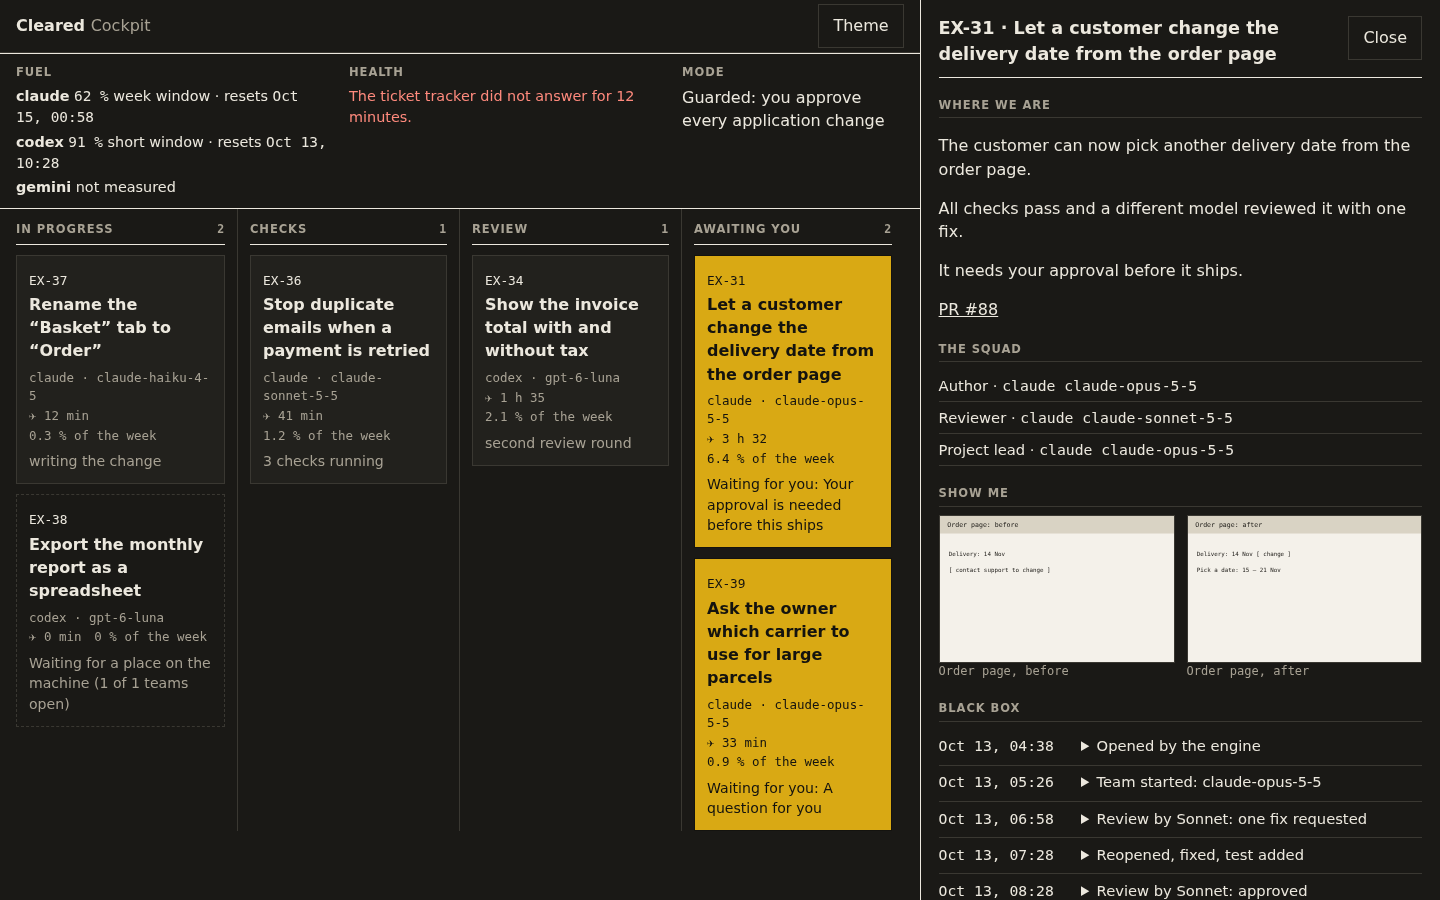
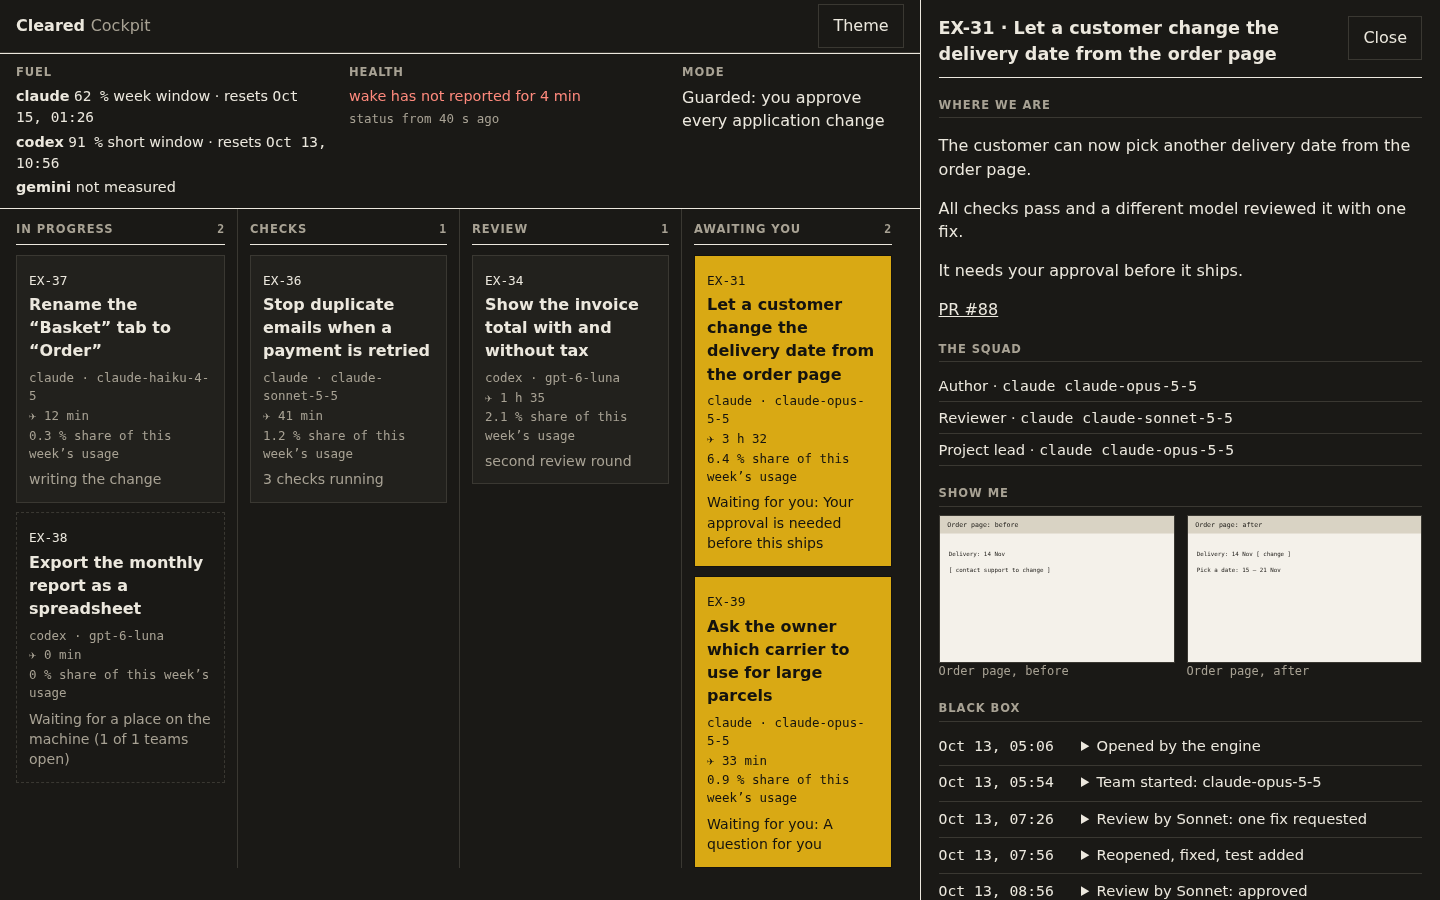
feat: read the health the wake recorded instead of running status
The app no longer runs cleared status: no write, no outside call. Health shows
the recorded state with its age, and a wake silent for three intervals is itself
a problem. The quota share on a card is renamed to share of this week's usage.

diff --git a/app/public/app.js b/app/public/app.js
@@ -18,6 +18,18 @@ const when = (iso) => new Intl.DateTimeFormat(locale(), { month: 'short', day: '
 const dur = (m) => (m < 60 ? `${m} min` : `${Math.floor(m / 60)} h ${String(m % 60).padStart(2, '0')}`);
 const mono = (text) => el('span', { className: 'mono', textContent: text });
 
+function ageText(iso) {
+  const sec = Math.max(0, Math.round((Date.now() - Date.parse(iso)) / 1000));
+  return sec < 90 ? t('app_age_s', { n: sec }) : sec < 5400 ? t('app_age_min', { n: Math.round(sec / 60) }) : t('app_age_h', { n: Math.round(sec / 3600) });
+}
+// The age of the recorded status is shown, and keeps counting between updates.
+function tickAge() {
+  const node = $('health-age');
+  const at = state.snap?.health?.recordedAt;
+  if (node) node.textContent = at ? t('app_status_age', { age: ageText(at) }) : '';
+}
+setInterval(tickAge, 5000);
+
 const COLUMNS = ['progress', 'checks', 'review', 'awaiting'];
 const state = { snap: null, last: null, open: null, project: null, connected: false, opener: null };
 
@@ -41,7 +53,9 @@ function renderTop(s) {
     f.measured ? [mono(`${f.used} %`), ` ${t('app_of_window', { window: f.window })} · ${t('app_resets')} `, el('time', { className: 'mono', dateTime: f.resetsAt, textContent: when(f.resetsAt) })] : t('app_not_measured'))));
   const h = $('health');
   h.replaceChildren(s.health.ok ? el('span', { className: 'ok' }, el('span', { className: 'dot' }), t('app_all_good'))
-    : el('ul', {}, ...s.health.problems.map((p) => el('li', { className: 'bad', textContent: p.message }))));
+    : el('ul', {}, ...s.health.problems.map((p) => el('li', { className: 'bad', textContent: p.message }))),
+  el('div', { className: 'age mono', id: 'health-age' }));
+  tickAge();
   $('mode').textContent = s.mode.label;
 }
 

diff --git a/app/public/style.css b/app/public/style.css
@@ -64,3 +64,4 @@ button, a { color: inherit; }
 .box time { white-space: nowrap; }
 .ph-head button { flex: 0 0 auto; white-space: nowrap; }
 .card.waiting button:focus-visible { outline-color: var(--atc-ink); }
+.age { font-size: .78rem; color: var(--muted); margin-top: .2rem; }

diff --git a/docs/app.md b/docs/app.md
@@ -1,6 +1,6 @@
 # The Cleared app (Cockpit), read only
 
-`cleared app` starts one interface for desktop and phone that shows the factory live. This first version **only reads**: the one thing it runs that is not a pure read is `cleared status` for the health box, which records its own heartbeat state in the ledger as it does from a terminal. No route writes, moves a ticket, answers a question, or starts or stops a team. Places where actions will come later are marked as reserved and are not clickable.
+`cleared app` starts one interface for desktop and phone that shows the factory live. This first version **only reads**: it writes nothing, runs no command that writes and makes no outside call (no GitHub, no tracker probe, no quota probe). No route writes, moves a ticket, answers a question, or starts or stops a team. Places where actions will come later are marked as reserved and are not clickable.
 
 ```sh
 cleared app            # serves the app; the installer registers it as cleared-app.service
@@ -12,7 +12,7 @@ cleared app --demo     # serves invented data, for a look without a project
 
 - **Tower**: four columns (In progress, Checks, Review, Awaiting you), one card per open ticket. Cards that wait for you are yellow and first in their column. A team waiting for a place on the machine has a dashed card with the reason. On a phone the tower is one list, with the cards that wait for you first.
 - **Porthole**: one ticket and its squad. *Where we are*, *The squad*, *Show me* (before/after captures for a screen ticket; otherwise an example, the tests added or changed and what it touches), and the *Black box*, a plain-language timeline from the ledger; unfold a line for the raw event.
-- **Top bar**: project tabs when there are several, **Fuel** (the most constraining window per subscription and its reset time, never a money amount; `not measured` otherwise), the health of `cleared status`, and the pilot mode.
+- **Top bar**: project tabs when there are several, **Fuel** (the most constraining window per subscription and its reset time, never a money amount; `not measured` otherwise), the recorded health of the wake, and the pilot mode.
 
 The interface language follows `[owner] language` through the message catalog (`app_*` keys in `lib/i18n/`).
 
@@ -22,10 +22,10 @@ The interface language follows `[owner] language` through the message catalog (`
 | --- | --- |
 | Cards and columns | Tracker tickets in the configured states, plus `runs` and `events` of the ledger. *Checks* is derived: a ticket in the progress state whose author run ended with a pull request and has no review run yet. |
 | Harness, model, flight time | `runs` (provider, model, started/ended). |
-| Share of quota on a card | The ticket's tokens divided by all tokens of the last seven days. The subscription itself reports only percentages per window, not per ticket. |
+| Share of this week's usage, on a card | The ticket's tokens divided by all tokens of the last seven days. It is a share of Cleared's own usage, not a share of the subscription: the subscription reports only percentages per window, not per ticket. |
 | Status line, Where we are, tests, example | The ticket's handover (`memory_entries`) and the approval request comment. A line like "1 044 tests green" is shown only if the handover says it. |
 | Fuel | `lib/limits.mjs summary`. |
-| Health | `cleared status --json`. |
+| Health | What the wake recorded (`heartbeat_state` and `heartbeat_incidents`, read-only), with its age ("status from 40 s ago"). If the wake has not reported for more than three wake intervals, that is itself shown as a problem ("wake has not reported for 4 min"). The app never runs `cleared status`. |
 | Pilot mode | Derived from `[merge] tooling_paths`: whether tooling paths may merge after review. |
 | Captures | Images attached to the ticket's comments, for the local tracker. Remote tracker images are not proxied in this version. |
 

diff --git a/docs/security.md b/docs/security.md
@@ -28,7 +28,7 @@ A fingerprint list is a screening rule, not encryption or a guarantee against di
 
 `[permissions.<role>]` maps role intent to each provider CLI. Claude receives command prefixes; Codex receives filesystem and network sandbox settings. Neither offers exactly the same controls as the other. Codex hides common credential stores from sandboxed commands, but both harnesses may read other files available to the Cleared account. Development roles need network access for TCP test databases, so they can also contact external destinations unless the host enforces a separate network policy. A `release-live` host Codex run refuses to start when trusted scripts need write access to approval state; without a command allowlist the model could otherwise change that state directly. Codex commits need write access to the shared Git loose-object store and branch namespace; Cleared protects Git control files and existing sibling refs, but this is not a data-loss boundary against a hostile harness. See the [role table](adapters.md#existing-adapters). The project lead and reviewer should be read-only; development roles may edit their own worktrees. `when-free.sh` gates commands that compete for host resources, such as screen tests. This is scheduling, not isolation. Dependencies from the base lock file are installed by the dispatcher with `npm ci --ignore-scripts`; a team's new dependency waits for CI after its pull request. Review CI and deployment workflows as carefully as code: `[merge] guarded_paths` should include them and the Cleared lock scripts.
 
-The optional dashboard contains ticket titles and host status. `serve/install.sh` binds it to the host's Tailscale address and verifies that only the page is served. Configure network access separately; `serve/check.sh` can also probe from an existing container when `CLEARED_CHECK_CONTAINER` is set. The read-only [Cleared app](app.md) is held to the same checks on its own port and also needs an access token: it reads only, shows no money amount, and its token file is private and outside the project. Running `cleared status` for its health box records heartbeat state in the ledger, as it does from a terminal. No container is required for the normal check. State and tokens are kept outside the repository under `~/.local/state/cleared/<project>/`; limit filesystem access to that directory.
+The optional dashboard contains ticket titles and host status. `serve/install.sh` binds it to the host's Tailscale address and verifies that only the page is served. Configure network access separately; `serve/check.sh` can also probe from an existing container when `CLEARED_CHECK_CONTAINER` is set. The read-only [Cleared app](app.md) is held to the same checks on its own port and also needs an access token: it reads only, shows no money amount, and its token file is private and outside the project. No container is required for the normal check. State and tokens are kept outside the repository under `~/.local/state/cleared/<project>/`; limit filesystem access to that directory.
 
 ## Reporting a vulnerability
 
